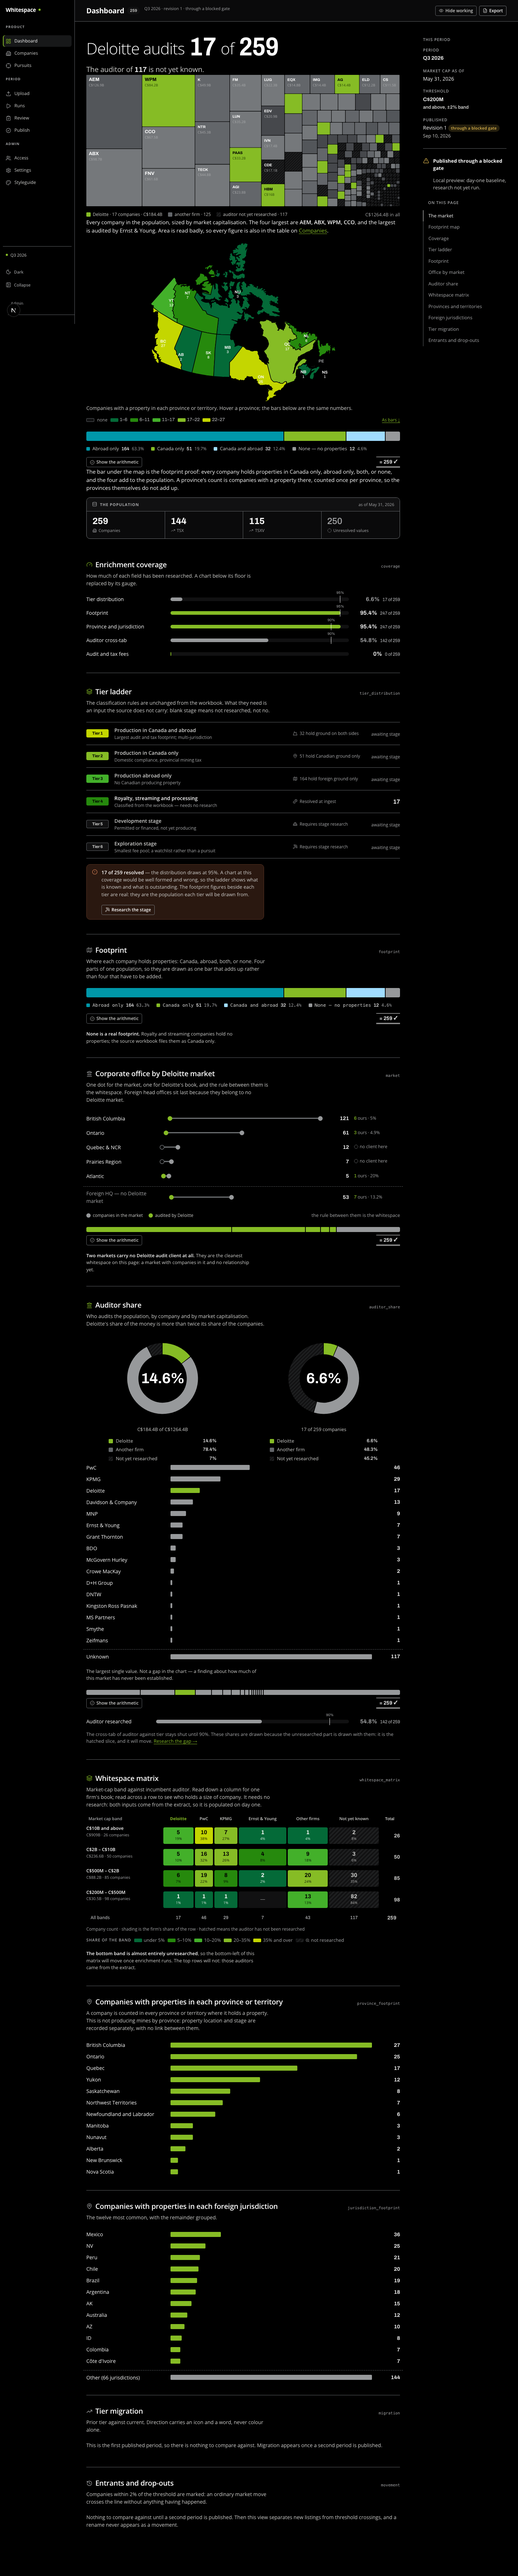
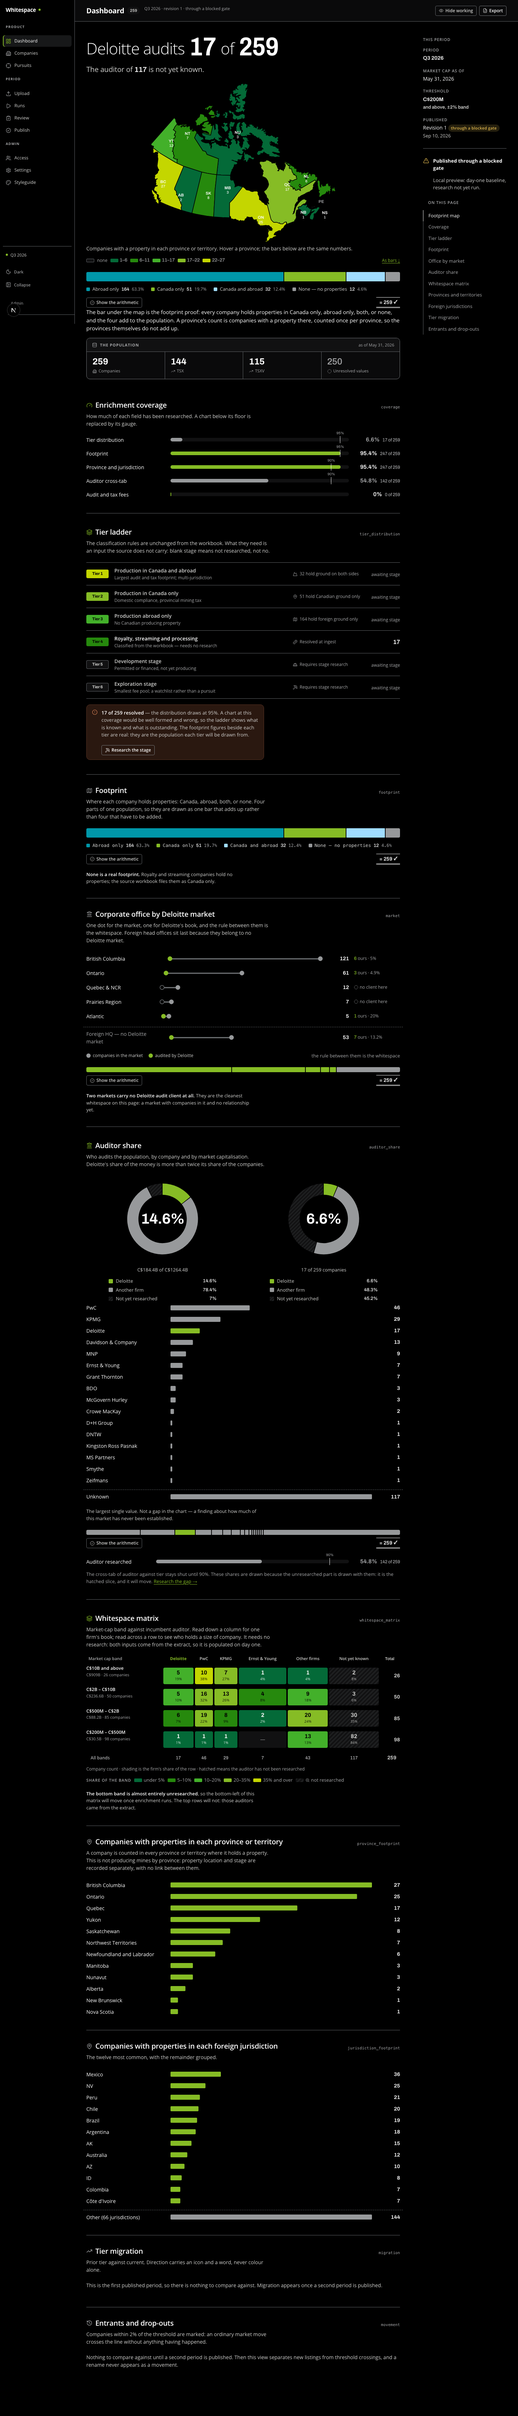
Dashboard: withdraw the treemap; the map is the hero again
Area sized by market capitalisation put the argument on one screen, and
it worked. It is out anyway: the map is the image this product is
remembered by, and two full-width pictures above the fold is one too
many. Samuel's call on second look.

companyMarks stays -- the by-value donut needs every company's market
cap and auditor, and that is the one pass that gets them. The treemap's
own tokens go with it; the hatch stays, because the donut's
research-gap slice is drawn with it. The component is in the history at
b435ce4 if the decision is reopened, and doc 18 records why it was
withdrawn rather than leaving a gap where a section used to be.

diff --git a/src/app/globals.css b/src/app/globals.css
@@ -188,10 +188,8 @@
      text on a fill and the fill changes under it. */
   --on-seq-1: var(--dtt-white); --on-seq-2: var(--dtt-black); --on-seq-3: var(--dtt-black);
   --on-seq-4: var(--dtt-black);  --on-seq-5: var(--dtt-black);
-  /* The market, as one material in four steps. Green is Deloitte and nothing
-     else on this page, so a competitor never takes a hue. */
-  --tm-1: #75787B; --tm-2: #63666A; --tm-3: #53565A; --tm-4: #46484C;
-  --tm-gap-a: #111112; --tm-gap-b: #1E1F20;
+  /* The research gap takes no hue: it is not a firm, it is work outstanding. */
+  --hatch-a: #111112; --hatch-b: #1E1F20;
   --cat-1: var(--dtt-green); --cat-2: var(--dtt-blue-1); --cat-3: var(--dtt-teal-5);
   --shadow-ink: rgb(0 0 0 / .6);
   --backdrop: rgb(0 0 0 / .6);
@@ -256,8 +254,7 @@
   --seq-4: var(--dtt-green-6); --seq-5: var(--wsp-green-deepest);
   --on-seq-1: var(--dtt-black); --on-seq-2: var(--dtt-black); --on-seq-3: var(--dtt-black);
   --on-seq-4: var(--dtt-white); --on-seq-5: var(--dtt-white);
-  --tm-1: #97999B; --tm-2: #B0B2B4; --tm-3: #C4C5C7; --tm-4: #D8D9DA;
-  --tm-gap-a: #F4F4F3; --tm-gap-b: #E2E2E0;
+  --hatch-a: #F4F4F3; --hatch-b: #E2E2E0;
   --cat-1: var(--dtt-green); --cat-2: var(--dtt-blue-5); --cat-3: var(--dtt-teal-5); --cat-4: var(--dtt-green-6);
   --sidebar-bg: var(--wsp-surface-2-light);
   --sidebar-active: var(--dtt-white);
@@ -313,8 +310,7 @@
     --seq-4: var(--dtt-green-6); --seq-5: var(--wsp-green-deepest);
     --on-seq-1: var(--dtt-black); --on-seq-2: var(--dtt-black); --on-seq-3: var(--dtt-black);
     --on-seq-4: var(--dtt-white); --on-seq-5: var(--dtt-white);
-    --tm-1: #97999B; --tm-2: #B0B2B4; --tm-3: #C4C5C7; --tm-4: #D8D9DA;
-    --tm-gap-a: #F4F4F3; --tm-gap-b: #E2E2E0;
+    --hatch-a: #F4F4F3; --hatch-b: #E2E2E0;
     --cat-2: var(--dtt-blue-5); --cat-4: var(--dtt-green-6);
     --shadow-ink: rgb(0 0 0 / .18);
     --backdrop: rgb(0 0 0 / .32);
@@ -608,26 +604,12 @@ h3 { font-size: var(--fs-body); font-weight: 600; margin: 0 0 var(--space-2); }
 .bar-row.muted .n { color: var(--ink-3); }
 .bar-row.terminal { margin-top: var(--space-2); padding-top: var(--space-2); border-top: 1px dashed var(--rule); border-radius: 0; }
 
-/* ------------------------------------------------------- treemap -----
-   Area is market capitalisation. The only chart here whose encoding is area
-   rather than length, which is why the largest tiles are labelled and the
-   numbers all live in the twin underneath. */
-.treemap svg { display: block; width: 100%; height: auto; }
-.treemap rect { transition: opacity var(--dur-1) var(--ease); }
-.treemap svg:hover rect:not(:hover) { opacity: .82; }
-.treemap rect.ours { stroke: var(--brand-fill); stroke-width: .5; }
-.treemap .tm-t { font-family: var(--font-figure); font-weight: 700; fill: var(--ink); letter-spacing: -.01em; }
-.treemap .tm-s { font-family: var(--font-text); font-size: 11px; fill: var(--ink-3); }
-.treemap .tm-t.on-brand { fill: var(--on-brand); }
-.treemap .tm-s.on-brand { fill: #2C4A08; }
-.tm-legend { display: flex; align-items: center; gap: var(--space-4); flex-wrap: wrap; margin: var(--space-3) 0 0; font-size: var(--fs-caption); color: var(--ink-2); }
-.tm-legend span { display: inline-flex; align-items: center; gap: 6px; }
-.tm-legend .meta { margin-left: auto; }
+/* The hatch and the swatches, shared by the donut and its key. The research
+   gap takes no hue anywhere: it is not a firm. */
 .sw { width: 12px; height: 12px; border-radius: 2px; display: block; flex: 0 0 auto; }
 .sw.ours { background: var(--brand-fill); }
-.sw.other { background: var(--tm-2); }
-.sw.all { background: var(--demote); }
-.sw.gap { background: repeating-linear-gradient(135deg, var(--tm-gap-b), var(--tm-gap-b) 3px, var(--tm-gap-a) 3px, var(--tm-gap-a) 6px); }
+.sw.other, .sw.all { background: var(--demote); }
+.sw.gap { background: repeating-linear-gradient(135deg, var(--hatch-b), var(--hatch-b) 3px, var(--hatch-a) 3px, var(--hatch-a) 6px); }
 
 /* --------------------------------------------------------- donut -----
    Legal where a donut is honest: two or three parts, a large difference, and

diff --git a/src/app/(viewer)/dashboard/page.tsx b/src/app/(viewer)/dashboard/page.tsx
@@ -13,7 +13,6 @@ import Bars from "../../_ui/Bars.tsx";
 import Composition, { type Part } from "../../_ui/Composition.tsx";
 import Donut, { type Slice } from "../../_ui/Donut.tsx";
 import DotPlot from "../../_ui/DotPlot.tsx";
-import Treemap from "../../_ui/Treemap.tsx";
 import Heatmap from "../../_ui/Heatmap.tsx";
 import TierLadder, { type Rung } from "../../_ui/TierLadder.tsx";
 import { companyMarks, marketPenetration, UNKNOWN as UNKNOWN_FIRM, whitespaceMatrix } from "../../../lib/publish/crosstabs.ts";
@@ -49,7 +48,6 @@ const FOOTPRINT_LABEL: Record<string, string> = {
 };
 
 const SECTIONS = [
-  { id: "market-map", label: "The market" },
   { id: "map", label: "Footprint map" },
   { id: "coverage", label: "Coverage" },
   { id: "tiers", label: "Tier ladder" },
@@ -136,6 +134,8 @@ export default async function Dashboard() {
   const matrix = await whitespaceMatrix(ctx.db, snap.publication.id,
                                         Number(period.threshold_amount), period.threshold_currency);
   const markets = await marketPenetration(ctx.db, snap.publication.id, "Foreign HQ — no Deloitte market");
+  // Not for a picture any more — the by-value donut needs every company's
+  // market cap and auditor, and this is the one pass that gets them.
   const tm = await companyMarks(ctx.db, snap.publication.id);
   const tierGate = gateFor("tier_distribution");
   const auditorGate = gateFor("auditor_crosstab");
@@ -223,24 +223,7 @@ export default async function Dashboard() {
             under it the footprint proof. Province counts count a company once
             per province and do not sum to the population, which is why the
             footing is the footprint's and the caption says so. */}
-        {/* The one chart where the answer arrives before anything is read: a
-            wall of grey with a few green tiles in it. The map keeps the space
-            directly beneath, unchanged. */}
-        {tm.marks.length > 0 && (
-          <div id="market-map" className="rise" style={{ "--i": 3 } as React.CSSProperties}>
-            <Treemap marks={tm.marks} total={tm.total} unsized={tm.unsized}
-                     currency={period.threshold_currency} />
-            <p className="note">
-              Every company in the population, sized by market capitalisation. The four largest
-              are <b>{tm.marks.slice(0, 4).map((m) => m.ticker || m.name).join(", ")}</b>, and{" "}
-              {tm.marks[0]?.firm === "Deloitte" ? "the largest is ours" : `the largest is audited by ${tm.marks[0]?.firm}`}.
-              Area is read badly, so every figure is also in the table on{" "}
-              <Link href="/companies" prefetch={false}>Companies</Link>.
-            </p>
-          </div>
-        )}
-
-        <div id="map" className="rise" style={{ "--i": 4 } as React.CSSProperties}>
+        <div id="map" className="rise" style={{ "--i": 3 } as React.CSSProperties}>
           <FootprintMap rows={provinceRows} hero twinHref="#province" />
           <Composition parts={footprintParts(footprint)} proof={proofLine(footprint, population)} />
           <p className="note">
@@ -251,7 +234,7 @@ export default async function Dashboard() {
           </p>
         </div>
 
-        <div className="rise" style={{ "--i": 5 } as React.CSSProperties}>
+        <div className="rise" style={{ "--i": 4 } as React.CSSProperties}>
           <Panel icon="database" title="The population" bare
                  right={<>as of {fmtDate(period.market_cap_as_of)}</>}>
             <StatRow items={[

diff --git a/src/app/(admin)/styleguide/page.tsx b/src/app/(admin)/styleguide/page.tsx
@@ -8,10 +8,9 @@ import Callout from "../../_ui/Callout.tsx";
 import Composition, { type Part } from "../../_ui/Composition.tsx";
 import Donut, { type Slice } from "../../_ui/Donut.tsx";
 import DotPlot from "../../_ui/DotPlot.tsx";
-import Treemap from "../../_ui/Treemap.tsx";
 import Heatmap from "../../_ui/Heatmap.tsx";
 import TierLadder, { type Rung } from "../../_ui/TierLadder.tsx";
-import type { CompanyMark, Matrix } from "../../../lib/publish/crosstabs.ts";
+import type { Matrix } from "../../../lib/publish/crosstabs.ts";
 import Icon, { type IconName } from "../../_ui/Icon.tsx";
 import Page from "../../_ui/Page.tsx";
 import Panel, { StatRow } from "../../_ui/Panel.tsx";
@@ -53,21 +52,6 @@ const FOOTPRINT_PARTS: Part[] = [
   { label: "Abroad only", n: 24, slot: 3 },
   { label: "None — no properties", n: 53, slot: "quiet" },
 ];
-
-/* Twenty invented issuers, so the treemap specimen shows the shape without
-   putting a real book on the styleguide. */
-const SAMPLE_MARKS: CompanyMark[] = ([
-  ["NRTH", 126.9, "Ernst & Young"], ["SOUT", 98.7, "PwC"], ["WEST", 84.2, "Deloitte"],
-  ["EAST", 67.5, "PwC"], ["ROYL", 61.6, "PwC"], ["CARY", 50.0, "KPMG"], ["DEVC", 45.3, "KPMG"],
-  ["EXPC", 44.8, "PwC"], ["BLNK", 35.4, "PwC"], ["GOLD", 35.2, "Not yet known"],
-  ["SILV", 33.2, "Deloitte"], ["COPR", 23.8, "KPMG"], ["ZINC", 22.3, "PwC"],
-  ["NICK", 20.9, "Other firms"], ["IRON", 17.4, "PwC"], ["LITH", 17.1, "Not yet known"],
-  ["URAN", 16.0, "Deloitte"], ["POTA", 14.8, "KPMG"], ["COAL", 12.2, "Not yet known"],
-  ["TUNG", 11.5, "Other firms"],
-] as Array<[string, number, CompanyMark["firm"]]>).map(([ticker, b, firm]) => ({
-  ticker, name: ticker, cap: b * 1e9, firm,
-}));
-const SAMPLE_TOTAL = SAMPLE_MARKS.reduce((a, m) => a + m.cap, 0);
 
 const SAMPLE_MATRIX: Matrix = {
   bands: [
@@ -425,15 +409,6 @@ export default async function Styleguide() {
               <tr><td>Tier 4 → Tier 4</td><td className="n">17</td><td className="diag"><Icon name="minus" size={13} /> unchanged</td></tr>
             </tbody>
           </table>
-          <h3 style={{ marginTop: 32 }}>Treemap — area is market capitalisation</h3>
-          <p className="note" style={{ marginTop: 0 }}>
-            The only chart in the product whose encoding is area rather than length, and the only
-            one where the answer arrives before anything is read. Area is judged badly, so the
-            largest tiles are labelled and every figure is also in the roster. Green is Deloitte;
-            every competitor is a step of one grey; the research gap is hatched and takes no hue.
-          </p>
-          <Treemap marks={SAMPLE_MARKS} total={SAMPLE_TOTAL} unsized={0} currency="CAD" />
-
           <h3 style={{ marginTop: 32 }}>Donut — where a donut is honest</h3>
           <p className="note" style={{ marginTop: 0 }}>
             Two or three parts, a large difference between them, and a hole big enough to carry

diff --git a/src/app/_ui/Donut.tsx b/src/app/_ui/Donut.tsx
@@ -37,8 +37,8 @@ export default function Donut({ slices, headline, caption, title }: {
            aria-label={`${title}. ${arcs.map((a) => `${a.label} ${a.n}, ${a.pct} percent`).join(". ")}`}>
         <defs>
           <pattern id={`dn-${slug(title)}`} width="6" height="6" patternTransform="rotate(45)" patternUnits="userSpaceOnUse">
-            <rect width="6" height="6" fill="var(--tm-gap-a)" />
-            <rect width="3" height="6" fill="var(--tm-gap-b)" />
+            <rect width="6" height="6" fill="var(--hatch-a)" />
+            <rect width="3" height="6" fill="var(--hatch-b)" />
           </pattern>
         </defs>
         {arcs.map((a) => (

diff --git a/docs/design/18-brand-guide.md b/docs/design/18-brand-guide.md
@@ -203,7 +203,6 @@ Marks: bars 14px thick with 2px rounded data-ends and a 2px surface gap between 
 | View | Form | Colour job | Label rule | Twin and gate |
 |---|---|---|---|---|
 | Population | the hero sentence and the stat row | none | figure-lg in a panel | — |
-| **The market** | **treemap** — every company a rectangle, area is market capitalisation | brand + one grey in four steps; the gap hatched | the largest tiles carry their ticker and value | the roster is the twin, and the caption says so |
 | Footprint | **composition bar** — four parts of one population, drawn as one bar | categorical, the only place the slots are spent | a key naming every part with its count and share | the bar is its own proof |
 | Tier distribution | bars above the floor; **tier ladder** below it | ordinal badge ramp | value at the tip, or the basis and "awaiting stage" | the ladder states the refusal and the real basis |
 | Office by market | **dot plot** — one dot for the market, one for Deloitte's book | brand + grey | count at the tip; "n ours · x%", or "no client here" | mono composition proof |
@@ -222,9 +221,9 @@ Marks: bars 14px thick with 2px rounded data-ends and a 2px surface gap between 
 
 **Where a donut is legal.** Two or three parts, a large difference between them, and a hole big enough to carry the headline. Doc 09 banned pies for the *tier distribution* — five or six near-equal segments where the whole point was that two tables disagreed — and that ban holds for that chart, for the six Deloitte markets, and for anything else with near-equal parts. The auditor pair is the other shape: ours, everyone else's, and the part nobody has looked at yet. **The third slice is what makes it honest below the auditor floor**: the research gap is drawn as a gap, hatched and named, so no reader can mistake unresearched for held by somebody else. The coverage meter still sits underneath, and the cross-tab of auditor against tier is still shut.
 
-**Green means Deloitte and nothing else.** In the treemap every competitor is a step of one grey rather than a hue of its own. A four-firm colour set was tested against the palette and cannot be had: no single fixed set of four Deloitte values clears 3:1 on both a white and a black ground, and once green is reserved the palette has only two hue families left — blue and teal — for three competitors. Per-theme steps would solve the contrast half and not the arithmetic half. *[decision: leave the competitors grey, or accept two steps of one hue for two firms]*
+**Green means Deloitte and nothing else**, so every competing firm is drawn in the de-emphasis grey wherever firms appear together. A four-firm colour set was tested against the palette and cannot be had: no single fixed set of four Deloitte values clears 3:1 on both a white and a black ground, and once green is reserved the palette has only two hue families left — blue and teal — for three competitors. Per-theme steps would solve the contrast half and not the arithmetic half. *[decision: leave the competitors grey, or give up the rule and let one firm take a green step]*
 
-**Area is read badly, so it never carries a number alone.** The treemap labels its largest tiles, names every tile in its title, and says in its caption that the roster holds all 259 figures.
+**A treemap was built for the hero and withdrawn.** Area sized by market capitalisation put the argument on one screen, and it was removed on 13 September because the map is the image this product is remembered by and two full-width pictures above the fold is one too many. The component is in the history at `b435ce4` if the decision is ever reopened; the market-cap figures it drew are all in the roster.
 
 **A heat map's steps are named, never stretched.** A linear five-way split of 0–100% puts almost every cell in the first two steps while 117 auditors are unresearched, and silently stretching the scale to fill the ramp would make a 12% cell look like a 40% one. The steps are fixed percentages and the legend prints them.
 
@@ -357,7 +356,7 @@ Ordered so the demonstration path is finished first. Effort is in engineer-days 
 | 24 | Fold the export's cover and sheets onto the brand (section 14) | 1 | — |
 | 25 | Drill-down links from every bar into the filtered roster, and one "since last period" empty state | 1 | — |
 | 26 | The composition bar, the whitespace matrix and the tier ladder | 1.5 | ✓ |
-| 27 | The treemap hero, the auditor donut pair and the market dot plot | 1 | ✓ |
+| 27 | The auditor donut pair and the market dot plot | 1 | ✓ |
 
 **Acceptance.** Steps 1–18 are in the tree; `npm run check:contrast`, `npm test` and `npm run e2e:isolated` pass on it.
 
